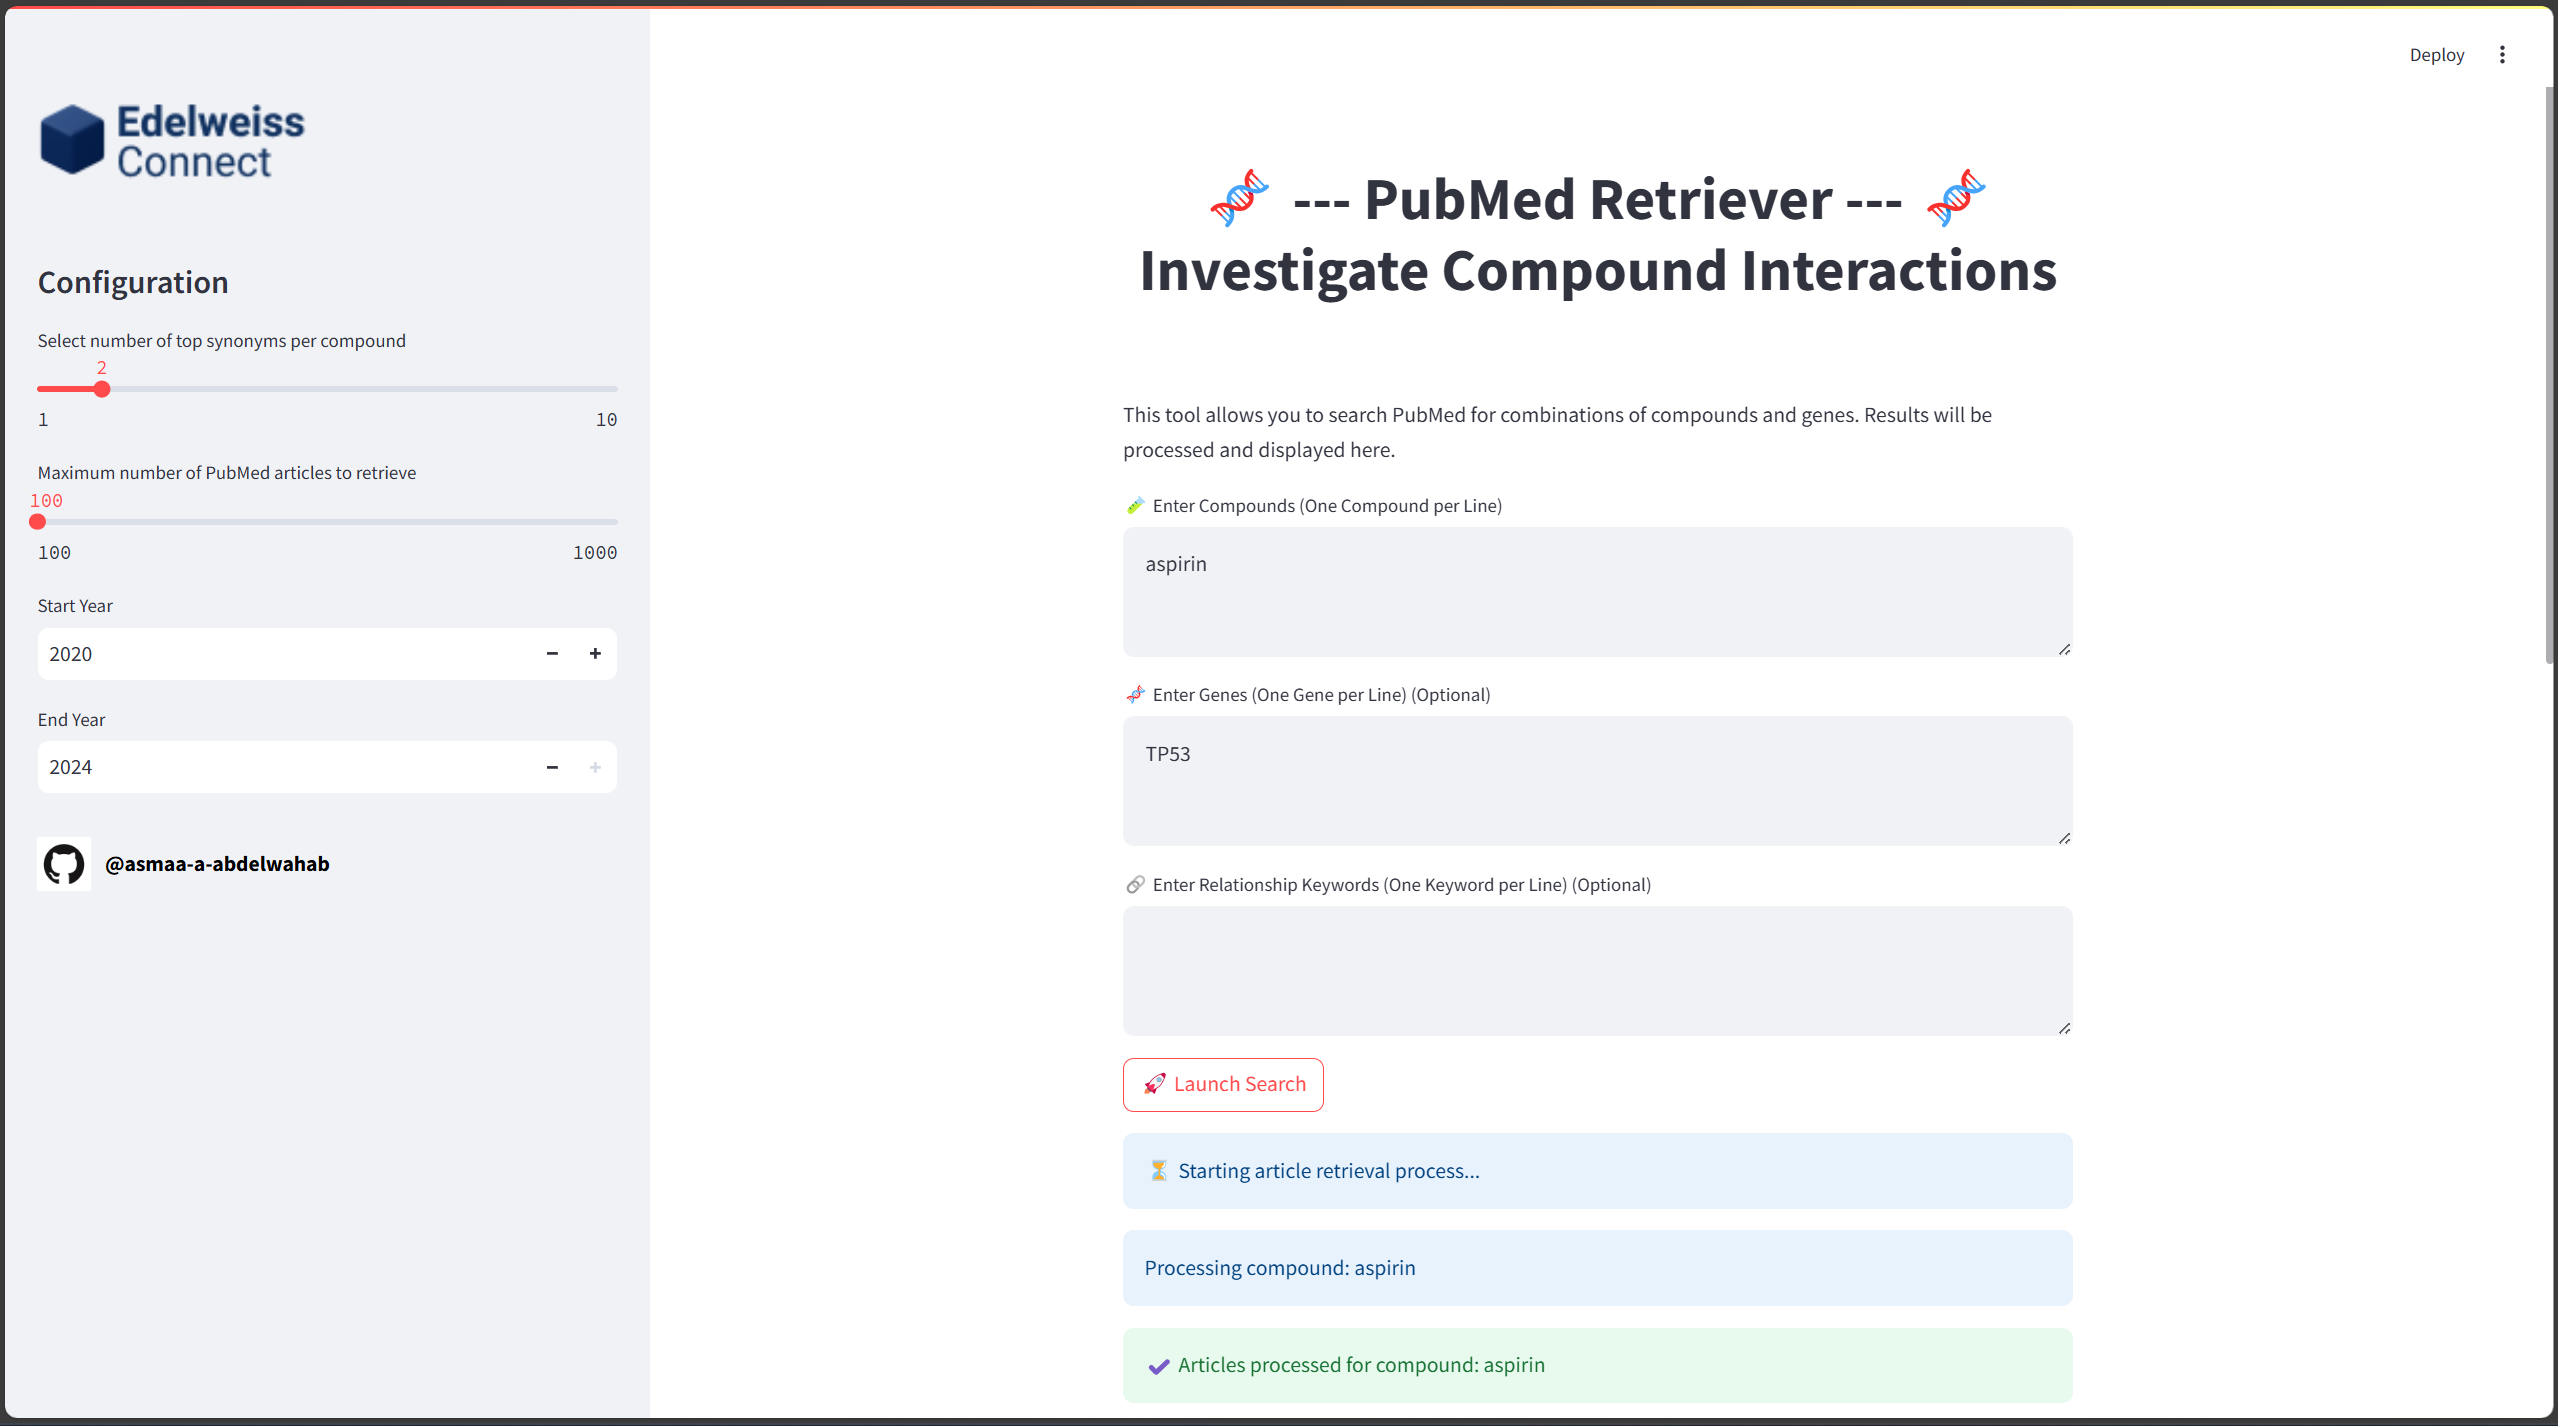
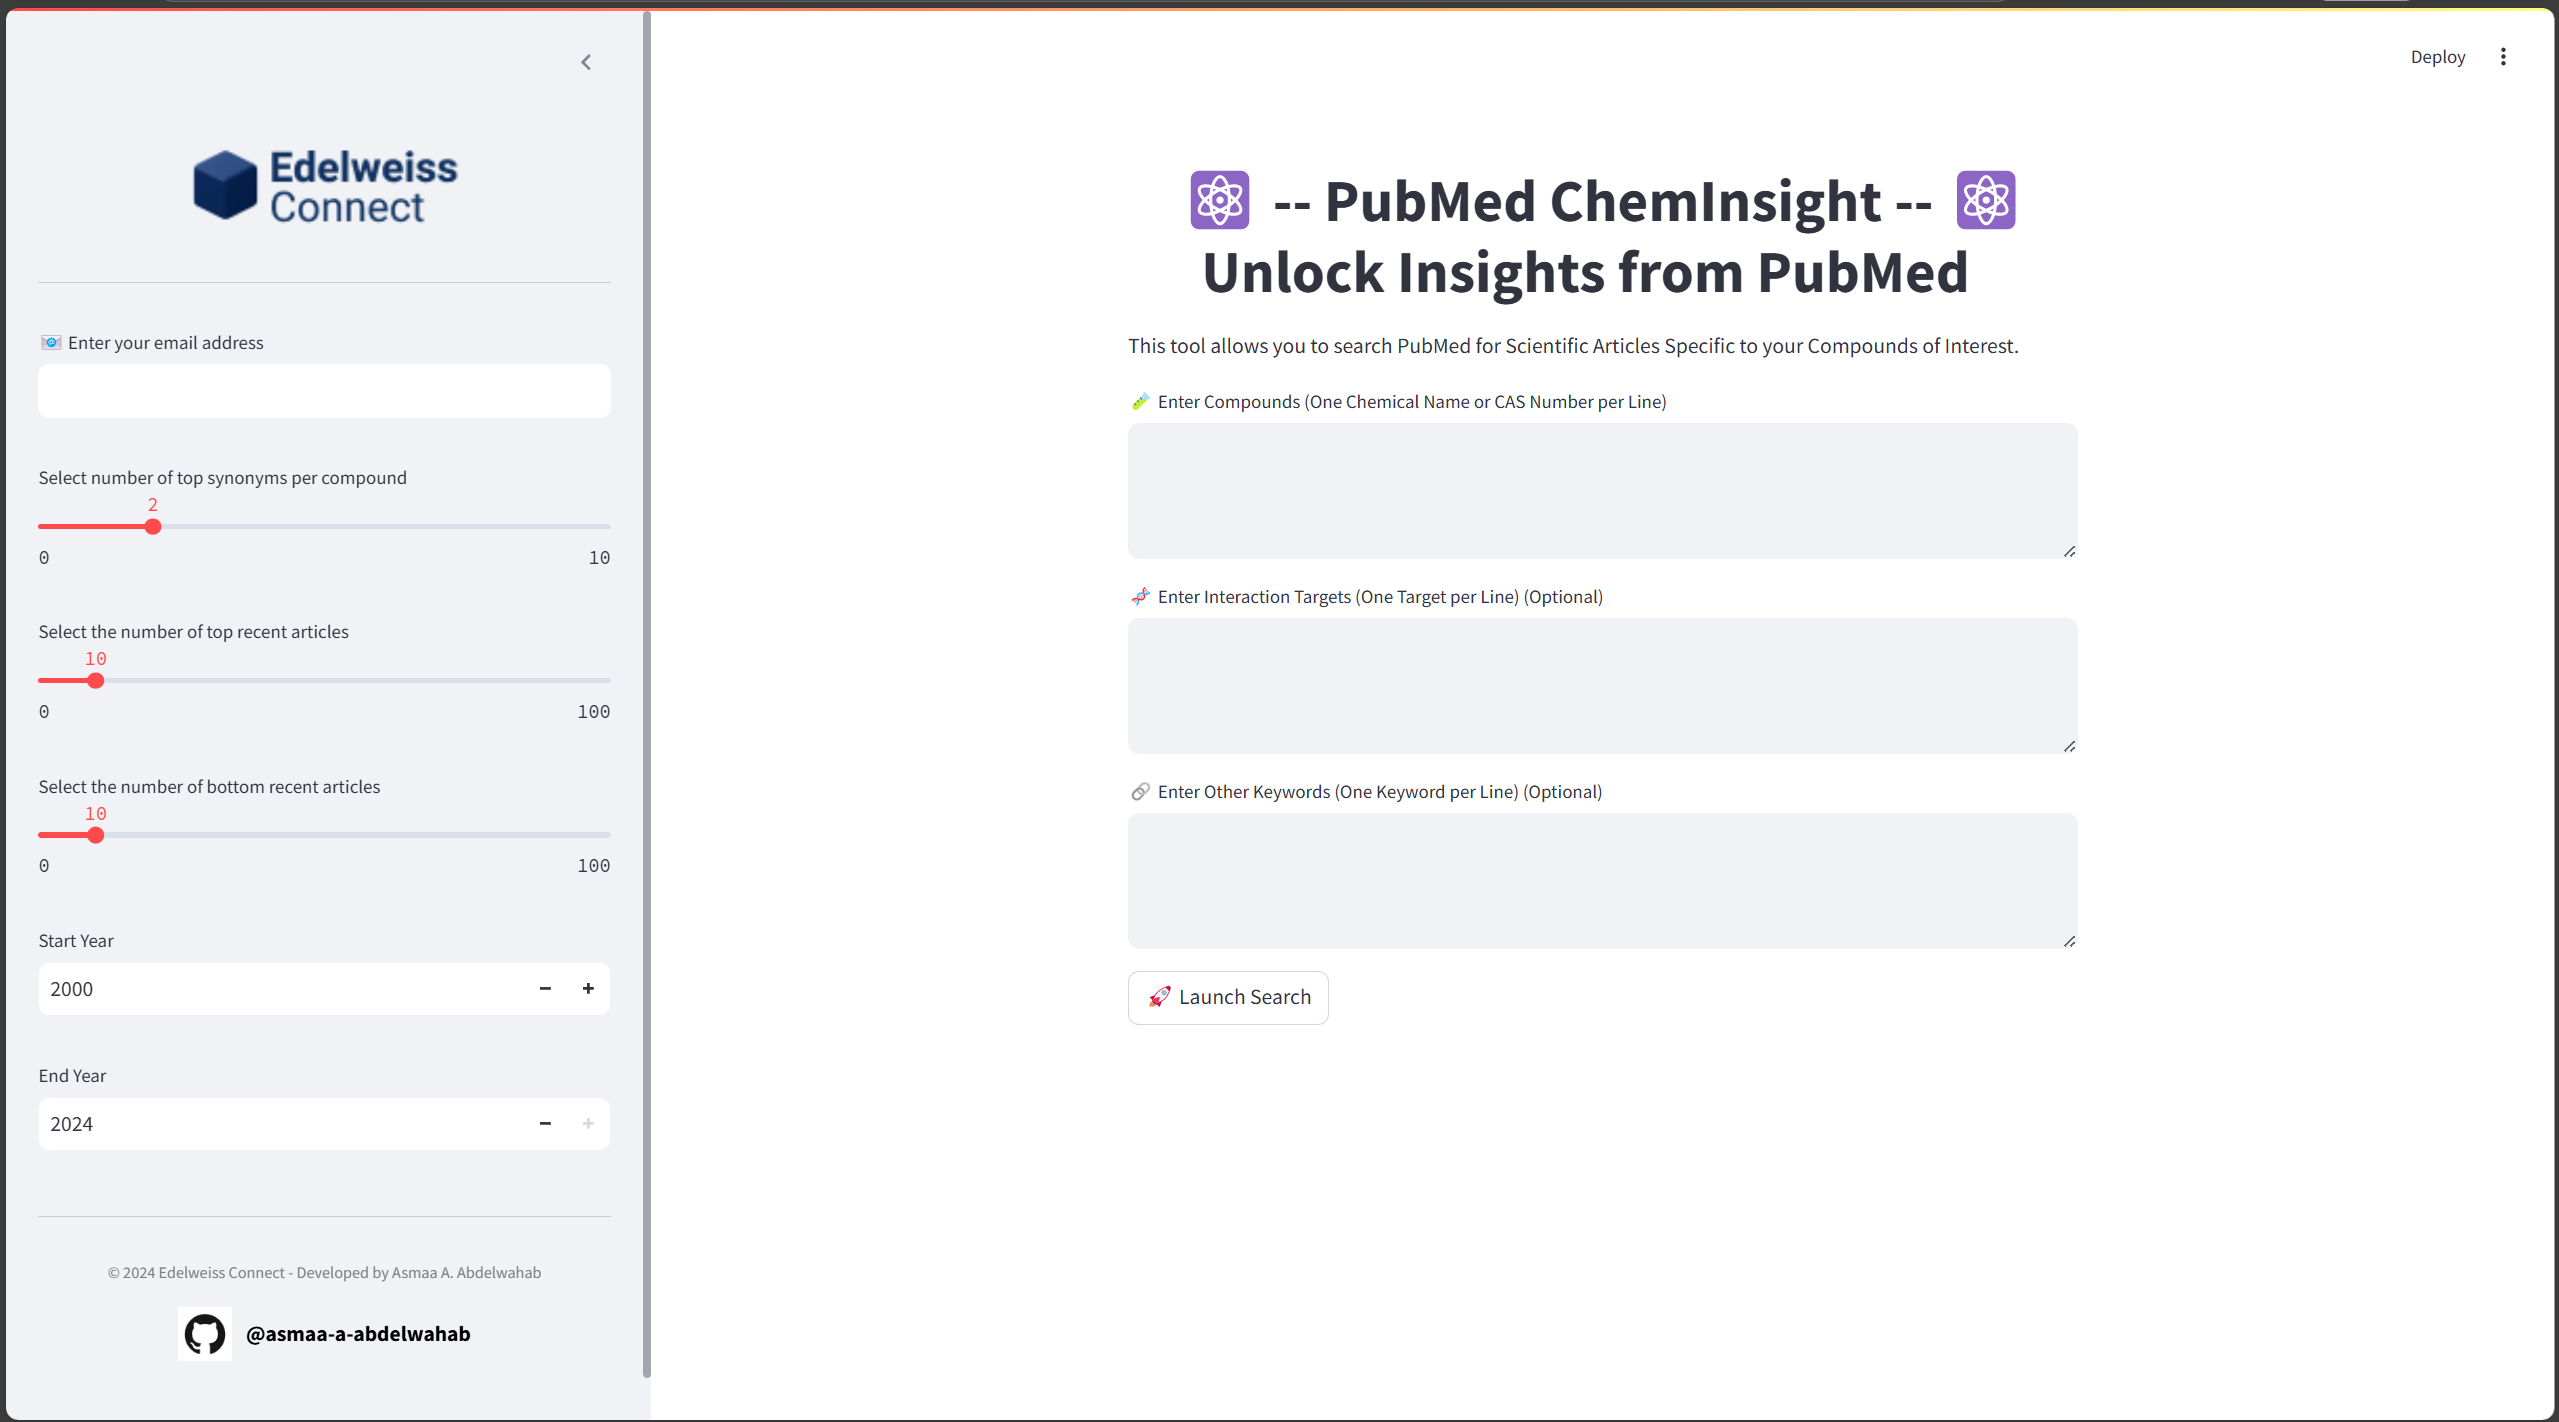
Update README

diff --git a/README.md b/README.md
@@ -1,4 +1,4 @@
-# 🧬 PubMed Retriever: Investigate Compound Interactions
+# ⚛ PubMed ChemInsight: Unlock Insights from PubMed
 
 **PubMed Retriever** is a Streamlit-based application designed to help researchers explore compound-gene interactions through comprehensive literature searches on PubMed. The tool facilitates the retrieval and analysis of scientific articles by querying combinations of compounds and genes, while also allowing the inclusion of specific keywords to refine the search.
 
@@ -84,6 +84,7 @@ The app leverages several key technologies and data sources to retrieve relevant
 
 2. **Search Results Page:**
    ![Search Results Page](images/2.png)
+   ![Search Results Page](images/3.png)
 
 ## Dependencies
 
